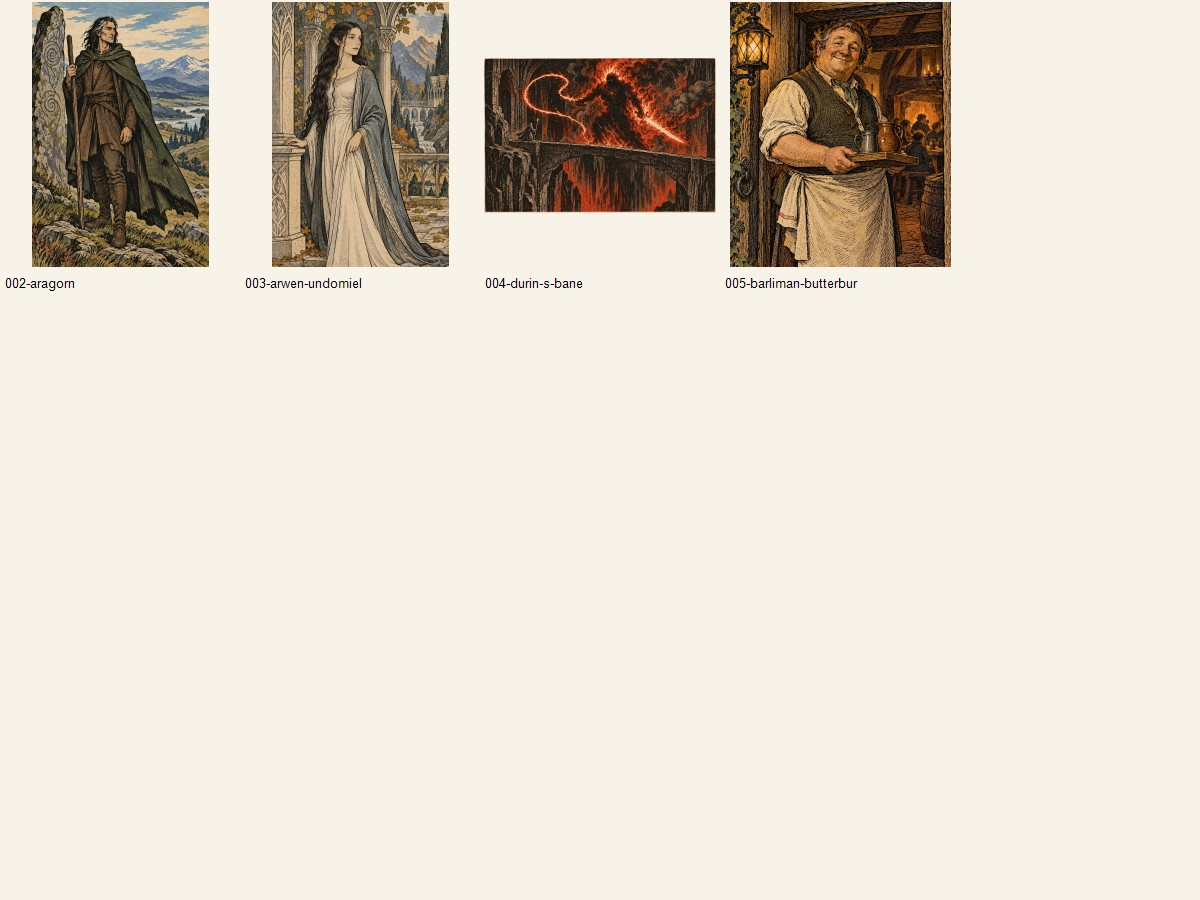
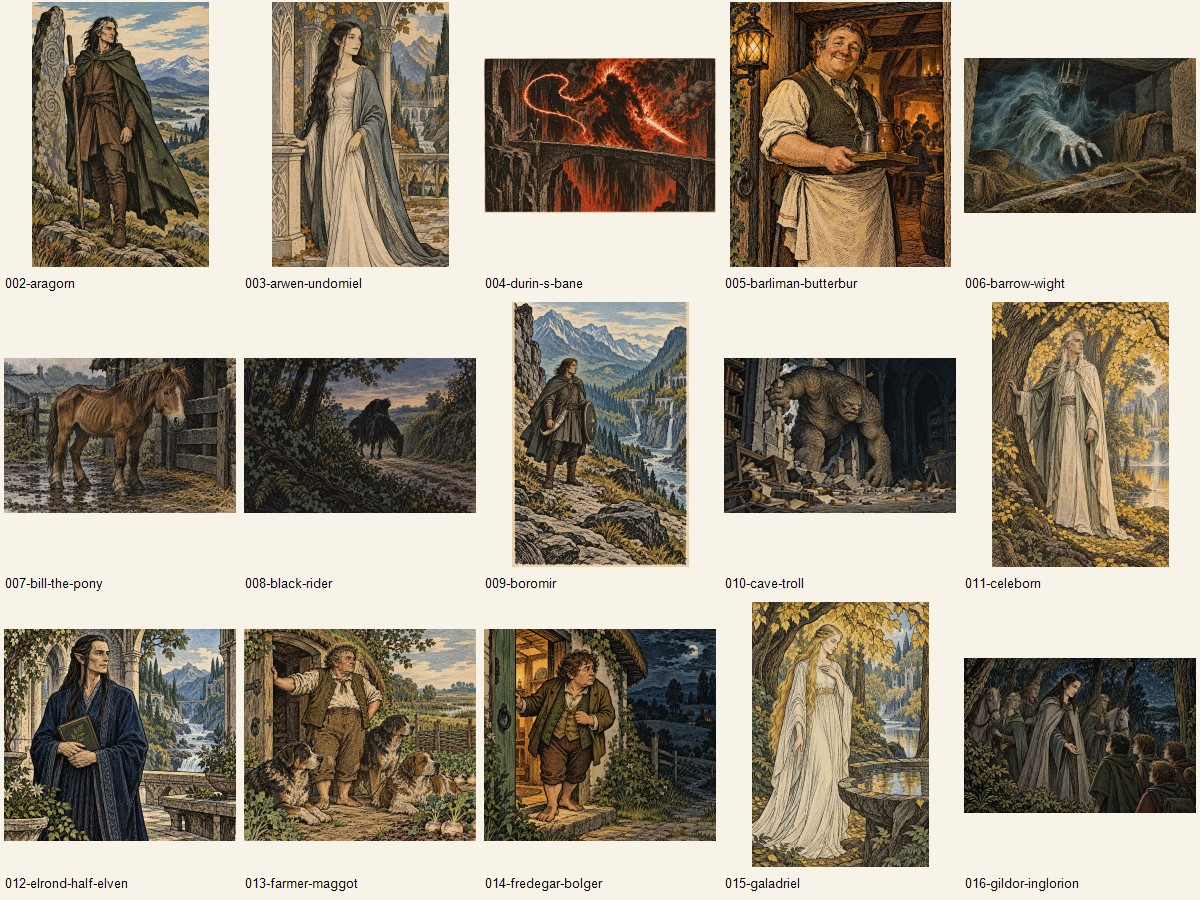
Add next batch of book-based Fellowship and Two Towers art

diff --git a/scripts/lotr-two-books-art/PROGRESS.md b/scripts/lotr-two-books-art/PROGRESS.md
@@ -1,6 +1,6 @@
 # Combined Fellowship and Two Towers illustration replacement
 
-Status at 2026-10-02: in progress on `feature/lotr-fellowship-two-towers-art` in `F:\Projects\WorldBreaker\Kathala-Library-oz-art`. The built-in image tool reached its usage limit; its reported reset is 2026-10-03 00:41:15 UTC. Continue with the built-in tool after reset. Do not use the CLI fallback without the user's explicit approval.
+Status at 2026-10-03: in progress on `feature/lotr-fellowship-two-towers-art` in `F:\Projects\WorldBreaker\Kathala-Library-oz-art`. Continue with the built-in image tool. Do not use the CLI fallback without the user's explicit approval.
 
 The user explicitly approved recurring continuations through completion, including PR merge and remote branch cleanup after checks pass. The active heartbeat named "Finish Fellowship and Two Towers art" targets this chat for the next run after the image-tool reset. If the tool reaches its limit again, save and push a checkpoint and reschedule that same heartbeat after the new reset. Delete it only when both books are merged and remote main is verified.
 
@@ -11,14 +11,14 @@ Work on both books together. Reuse art for the same subject across books, but ne
 ## Inventory and progress
 
 - `manifest.json` lists 217 distinct original illustrations for 389 cover, character, item and location slots: 173 Fellowship and 216 Two Towers. Exactly 172 illustrations are shared across books. Book-specific extras are one Fellowship cover and 44 Two Towers subjects.
-- Six final images are accepted, registered, and converted to JPEG: assets 001, 002, 003, 004, 005, and 174. The PNG masters are ignored by Git. 211 assets remain pending.
+- 34 final images are accepted, registered, and converted to JPEG: assets 001-033 and 174. The PNG masters are ignored by Git. 183 assets remain pending.
 - `make-contact-sheets.ps1` produces category sheets for visual review; the first cover and character sheets were generated and inspected.
 - The accepted Fellowship cover depicts Tom Bombadil guiding the four hobbits from the Old Forest, a book scene omitted by the films. The accepted Two Towers cover depicts Faramir speaking to Frodo and Sam in Henneth Annûn. Accepted shared art includes a distinctly non-film Aragorn, Arwen, a shadow-and-flame Balrog without film horns or wings, and Barliman Butterbur.
-- An earlier Fellowship cover with a nine-person lineup and an earlier Aragorn that resembled the film actor were rejected and are not part of the registered assets.
+- An earlier Fellowship cover with a nine-person lineup, an earlier Aragorn that resembled the film actor, a multi-pose Boromir, a blond film-like Legolas, and an eye-shaped Sauron were rejected and are not part of the registered assets.
 - The `.pwk` files contain 69 and 104 linked image blobs. The companion `.pwb` bundles contain 80 and 66 embedded blobs, including 14 map blobs in each. Many apparent missing references resolve through `.pwb`. The artwork task will replace all linked and embedded non-map art; preserve the functional map bundles. Two map layers in each book reuse a map image for navigation overlays; the no-repeat rule is enforced on cover, character, item and location illustrations.
 - A trial set of schematic SVG maps was discarded after discovering the embedded maps. No map replacements are pending.
 - `import-art.mjs` is prepared but intentionally refuses to run until all 217 approved JPEGs exist. It will import unique image refs per book, keep the map-only PWB, archive old blob metadata, update the catalogue, and correct Fellowship's `Endoras` typo to `Edoras`.
-- `validate.mjs` checks the checkpoint now and will check final art URL/hash uniqueness, map resolution, source removal, and catalogue sizes after import. Current checkpoint validation passes.
+- `validate.mjs` checks the checkpoint now and will check final art URL/hash uniqueness, map resolution, source removal, and catalogue sizes after import. Current checkpoint validation passes at 34/217.
 
 ## Next actions
 
